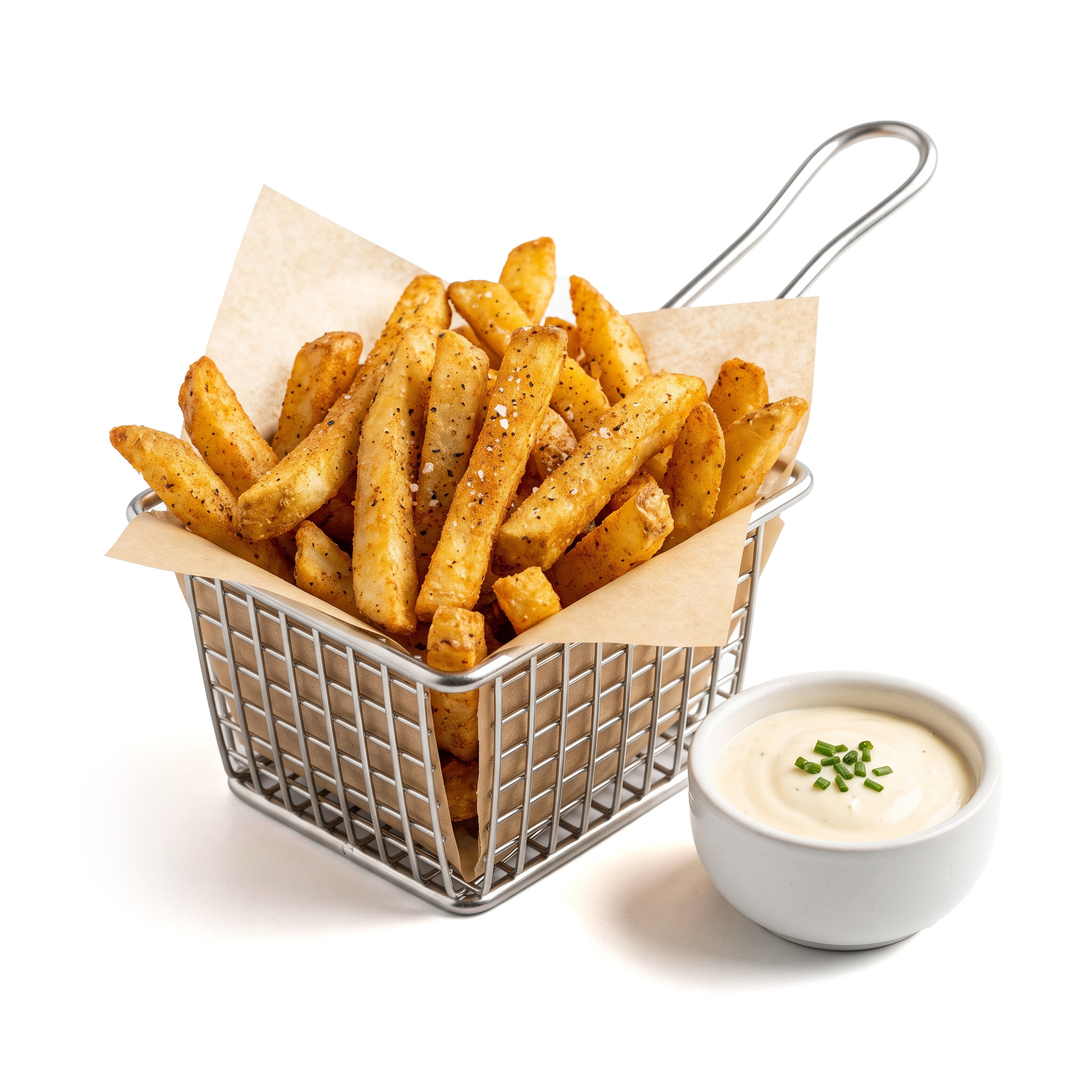
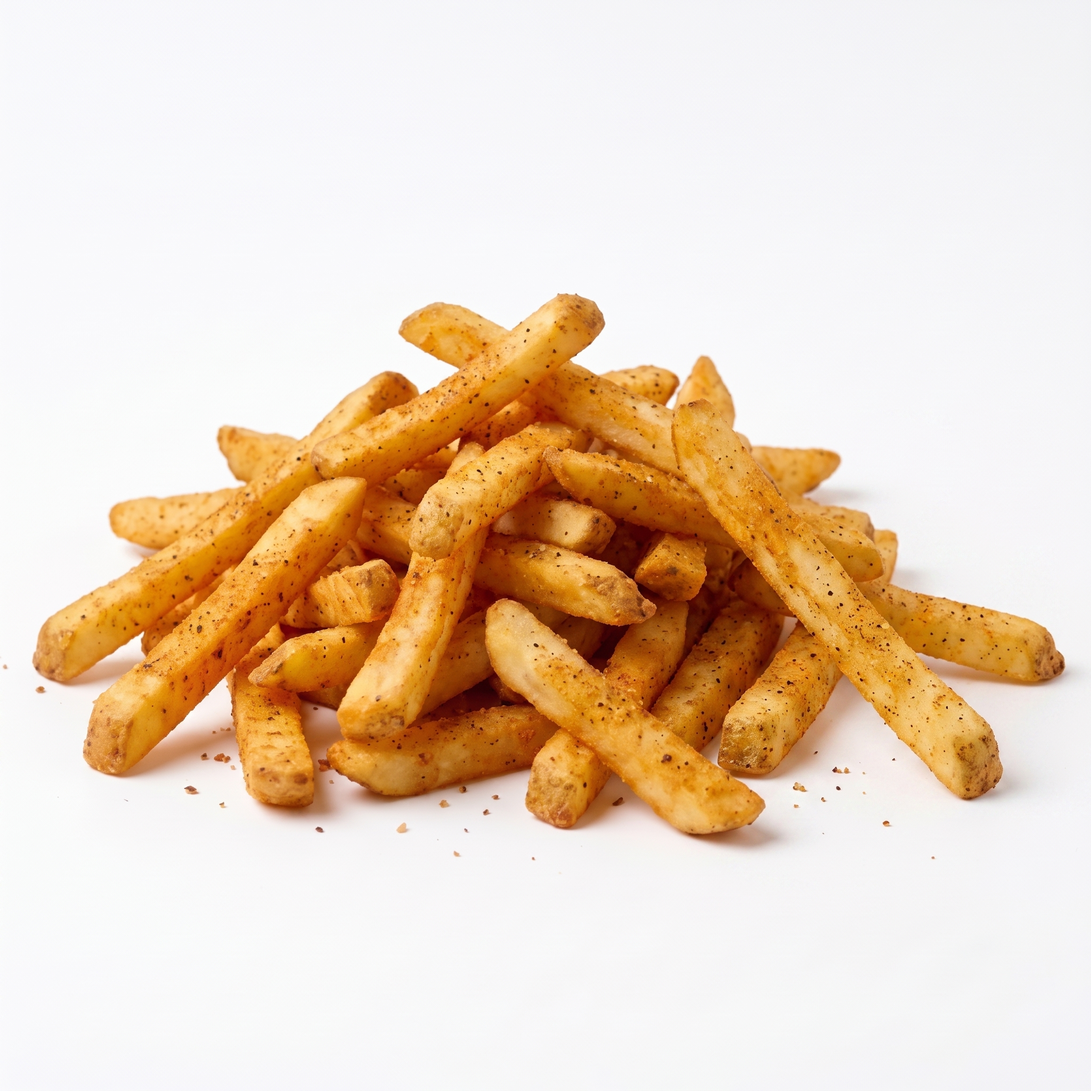
updated images

diff --git a/app/data/menu.ts b/app/data/menu.ts
@@ -54,6 +54,7 @@ const drinkImages: Record<string, string> = {
   "Coke No Sugar": "/images/menu/coke no sugar.webp",
   Sprite: "/images/menu/sprite.jpg",
   Fanta: "/images/menu/fanta.webp",
+  Lift: "/images/menu/lift.avif",
   Water: "/images/menu/water.jpg",
 };
 
@@ -220,6 +221,7 @@ export const menuItems: MenuItem[] = [
       "Six crispy chicken dino nuggets served with Nasty Fries and tomato sauce.",
     category: "kids",
     price: 14,
+    image: "/images/menu/dino-nuggets.jpg",
     canUpgrade: true,
     isKidsItem: true,
     dietaryTags: ["Halal"],
@@ -261,6 +263,7 @@ export const menuItems: MenuItem[] = [
       "A refreshing tropical dessert with silky mango pudding, lychee granita and lychee pearls.",
     category: "sweet",
     price: 12,
+    image: "/images/menu/mango-pudding-v2.jpg",
     dietaryTags: ["Vegetarian"],
   },
   ...adultDrinkChoices.map((name) => ({
